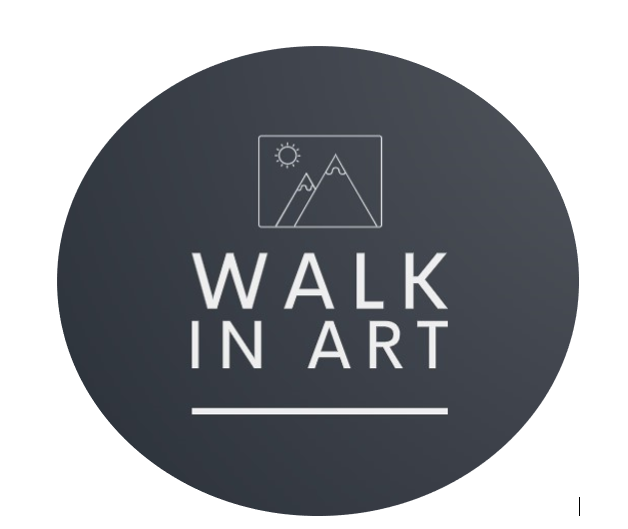
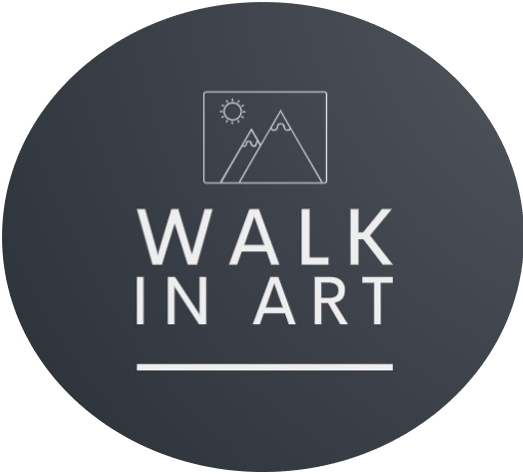
Ändrat logga och flyttat på sökfältet

diff --git a/wwwroot/css/header.css b/wwwroot/css/header.css
@@ -12,7 +12,9 @@ nav {
     font-size: 1.5em;
     background-color: #fff;
 }
-
+.search-wrapper{
+    position:absolute; left: 30%;
+}
 #search-btn {
     border-radius: 30px;
     border: none;
@@ -37,8 +39,5 @@ nav {
     font-size: 30px;
    
 }
-.text-decoration-none{
-    font-family:'Modern No. 20';
-    font-size: 30px;
-}
+
 
